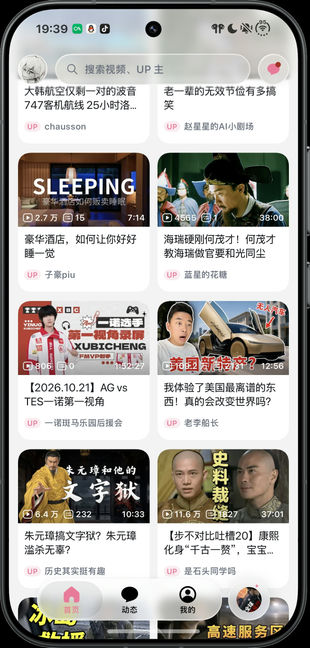
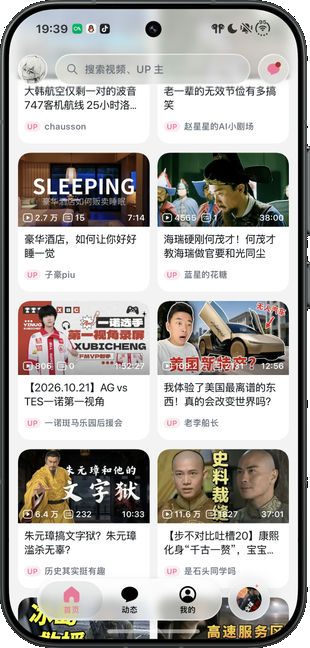
docs: transparent preview edges; changelog bullets

diff --git a/app/src/main/kotlin/com/aritxonly/bdfun/ui/ChangelogScreen.kt b/app/src/main/kotlin/com/aritxonly/bdfun/ui/ChangelogScreen.kt
@@ -257,11 +257,11 @@ fun ChangelogScreen(onBack: () -> Unit) {
                                 verticalAlignment = Alignment.Top,
                             ) {
                                 Text(
-                                    text = "${index + 1}.",
+                                    text = "•",
                                     color = BrandPink,
                                     fontSize = 14.sp,
                                     lineHeight = 21.sp,
-                                    modifier = Modifier.width(22.dp),
+                                    modifier = Modifier.width(18.dp),
                                 )
                                 Text(
                                     text = line,
